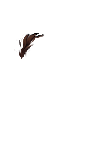
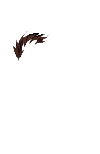
Гривы

Changed region(s): [[0.12, 0.2078, 0.48, 0.3896]]

diff --git a/kns_files/func.js b/kns_files/func.js
@@ -1,7 +1,7 @@
 var Func = {folders: {}};
 Func.folders.static = ["costume", "dirt", "wound", "drown", "poisoning", "disease"];
 Func.folders.animationCode = ["base", "eyes", "forepaw_left", "forepaw_right", "body", "head", "tail", "ear_left", "ear_right", "breast", "tuft", "neck", "belly", "hindpaw_left", "hindpaw_right", "base_tail", "base_mane", "base_ears", "base_hair", "eye_right", "mane", "hair"];
-Func.folders.animationLayers = ["base", "hindpaw_left", "hindpaw_right", "body", "forepaw_left", "forepaw_right", "belly", "head", "breast", "neck", "base_mane", "mane", "tuft", "base_ears", "ear_left", "ear_right", "base_hair", "hair", "base_tail", "tail", "eyes", "eye_right", "costume", "dirt", "wound", "drown", "poisoning", "disease"];
+Func.folders.animationLayers = ["base", "hindpaw_left", "hindpaw_right", "body", "forepaw_left", "forepaw_right", "belly", "breast", "neck", "base_mane", "mane", "head",  "base_hair", "hair", "tuft", "base_ears", "ear_left", "ear_right", "base_tail", "tail", "eyes", "eye_right", "costume", "dirt", "wound", "drown", "poisoning", "disease"];
 Func.type = {tail: "base_tail", mane: "base_mane", hair: "base_hair", ear_left: "base_ears", ear_right: "base_ears", tuft: "base_ears"};
 
 //"base", "hindpaw_left", "hindpaw_right", "body", "forepaw_left", "forepaw_right", "belly", "head", "breast", "neck", "base_mane", "mane", "tuft", "base_ears", "ear_left", "ear_right", "base_hair", "hair", "base_tail", "tail", "eyes", "eye_right", "costume", "dirt", "wound", "drown", "poisoning", "disease"
